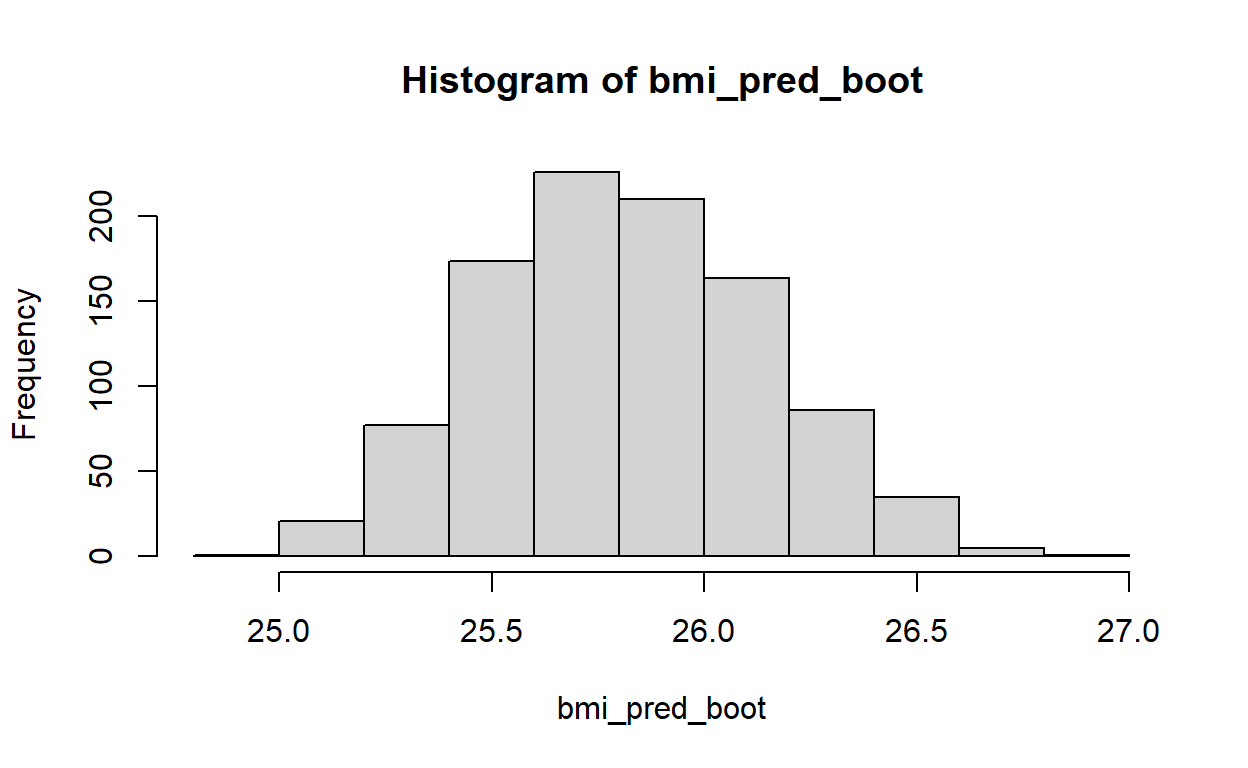
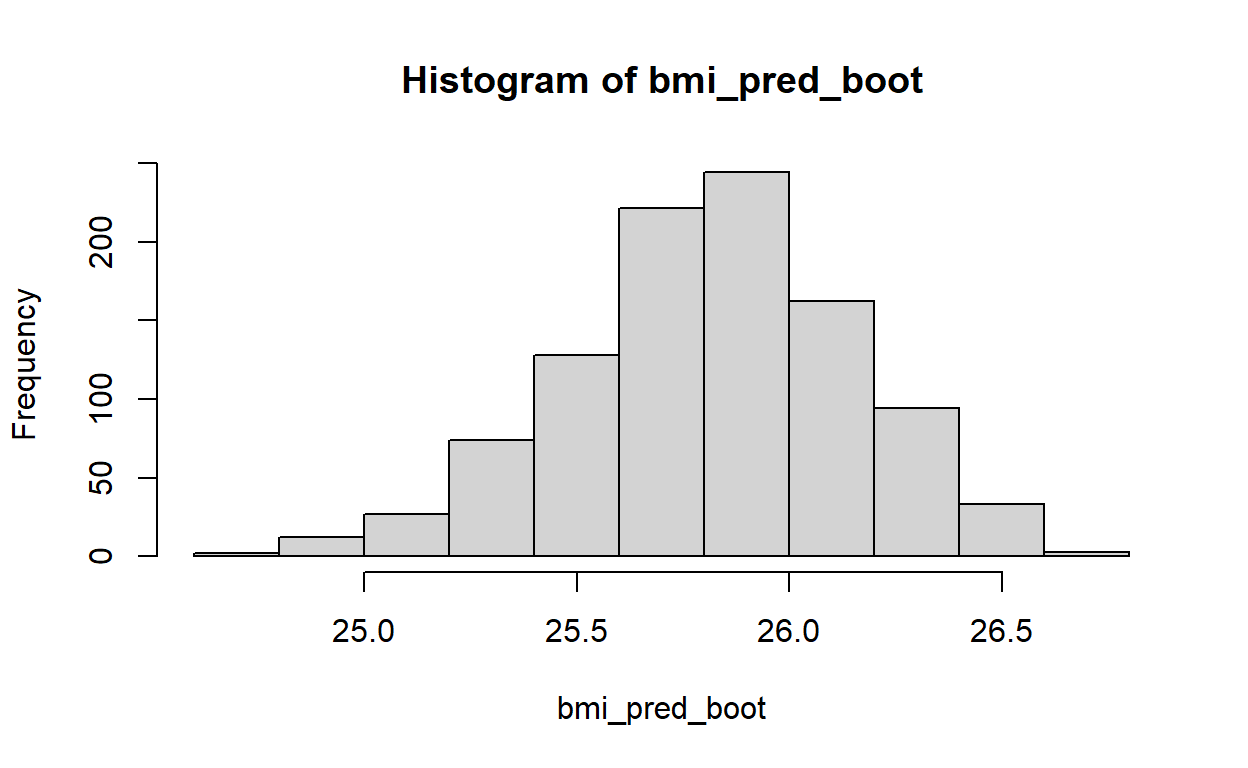
...

diff --git a/docs/C6_solution.html b/docs/C6_solution.html
@@ -2552,7 +2552,7 @@ C8 Case Study
 <span><span class='fu'>bmi_pred_funct</span><span class='op'>(</span>data_input <span class='op'>=</span> <span class='va'>SSRC_data_bootstrap</span><span class='op'>)</span></span></code></pre>
 </div>
 <pre><code>       1 
-26.22558 </code></pre>
+25.33084 </code></pre>
 </div>
 <h3 id="task-20">Task 20</h3>
 <p>Use a for loop to repeat what you did in tasks 18/19 1000 times. Store the results in a vector called <em>bmi_pred_boot</em>. Check out the <em>bmi_pred_boot</em> vector.</p>
@@ -2574,7 +2574,7 @@ C8 Case Study
 <span><span class='co'># Check out the vector</span></span>
 <span><span class='fu'><a href='https://rdrr.io/r/utils/head.html'>head</a></span><span class='op'>(</span><span class='va'>bmi_pred_boot</span><span class='op'>)</span></span></code></pre>
 </div>
-<pre><code>[1] 25.89763 25.80363 25.70693 25.46001 26.18723 25.27634</code></pre>
+<pre><code>[1] 25.95836 25.75462 25.91827 25.85037 25.61350 25.63804</code></pre>
 </div>
 <h3 id="task-21">Task 21</h3>
 <p>Create a histogram to analyse the distribution of <em>bmi_pred_boot</em> vector. (Just use <em>hist()</em> from the base R package)</p>
@@ -2592,18 +2592,18 @@ C8 Case Study
 <pre class="sourceCode r"><code class="sourceCode r"><span><span class='co'># Calculate mean</span></span>
 <span><span class='fu'><a href='https://rdrr.io/r/base/mean.html'>mean</a></span><span class='op'>(</span><span class='va'>bmi_pred_boot</span><span class='op'>)</span></span></code></pre>
 </div>
-<pre><code>[1] 25.81344</code></pre>
+<pre><code>[1] 25.81372</code></pre>
 <div class="sourceCode">
 <pre class="sourceCode r"><code class="sourceCode r"><span><span class='co'># Calculate standard deviation</span></span>
 <span><span class='fu'><a href='https://rdrr.io/r/stats/sd.html'>sd</a></span><span class='op'>(</span><span class='va'>bmi_pred_boot</span><span class='op'>)</span></span></code></pre>
 </div>
-<pre><code>[1] 0.3273709</code></pre>
+<pre><code>[1] 0.3359121</code></pre>
 <div class="sourceCode">
 <pre class="sourceCode r"><code class="sourceCode r"><span><span class='co'># Calculate quantiles</span></span>
 <span><span class='fu'><a href='https://rdrr.io/r/stats/quantile.html'>quantile</a></span><span class='op'>(</span><span class='va'>bmi_pred_boot</span>, probs <span class='op'>=</span> <span class='fu'><a href='https://rdrr.io/r/base/c.html'>c</a></span><span class='op'>(</span><span class='fl'>0.025</span>, <span class='fl'>0.975</span><span class='op'>)</span><span class='op'>)</span></span></code></pre>
 </div>
 <pre><code>    2.5%    97.5% 
-25.20987 26.45440 </code></pre>
+25.10069 26.46343 </code></pre>
 </div>
 <div class="sourceCode" id="cb20"><pre class="sourceCode r distill-force-highlighting-css"><code class="sourceCode r"></code></pre></div>
 <!--radix_placeholder_article_footer-->

diff --git a/docs/C8_solution.html b/docs/C8_solution.html
@@ -2666,18 +2666,18 @@ Number of Fisher Scoring iterations: 7</code></pre>
 <pre class="sourceCode r"><code class="sourceCode r"><span><span class='co'># Calculate mean</span></span>
 <span><span class='fu'><a href='https://rdrr.io/r/base/mean.html'>mean</a></span><span class='op'>(</span><span class='va'>exp_number_cvd_events_boot</span><span class='op'>)</span></span></code></pre>
 </div>
-<pre><code>[1] 378.122</code></pre>
+<pre><code>[1] 377.7711</code></pre>
 <div class="sourceCode">
 <pre class="sourceCode r"><code class="sourceCode r"><span><span class='co'># Calculate standard deviation</span></span>
 <span><span class='fu'><a href='https://rdrr.io/r/stats/sd.html'>sd</a></span><span class='op'>(</span><span class='va'>exp_number_cvd_events_boot</span><span class='op'>)</span></span></code></pre>
 </div>
-<pre><code>[1] 17.96547</code></pre>
+<pre><code>[1] 18.12974</code></pre>
 <div class="sourceCode">
 <pre class="sourceCode r"><code class="sourceCode r"><span><span class='co'># Calculate quantiles</span></span>
 <span><span class='fu'><a href='https://rdrr.io/r/stats/quantile.html'>quantile</a></span><span class='op'>(</span><span class='va'>exp_number_cvd_events_boot</span>, probs <span class='op'>=</span> <span class='fu'><a href='https://rdrr.io/r/base/c.html'>c</a></span><span class='op'>(</span><span class='fl'>0.025</span>, <span class='fl'>0.975</span><span class='op'>)</span><span class='op'>)</span></span></code></pre>
 </div>
 <pre><code>    2.5%    97.5% 
-343.7040 413.3943 </code></pre>
+340.0596 412.4694 </code></pre>
 </div>
 <h1 id="risk-classification-tool">Risk classification tool</h1>
 <div class="layout-chunk" data-layout="l-body">

diff --git a/docs/C0_course_introduction.html b/docs/C0_course_introduction.html
@@ -2303,7 +2303,8 @@ C8 Case Study
 <li>Google it!!!</li>
 <li>Search for what you need (e.g. “rename variables”) and add “in R”</li>
 <li>The information is almost certainly available, you just need to find it…;)</li>
-<li>Even experienced R users google all the time.</li>
+<li>An alternative to using google is to ask ChatGTP for help, which is often faster than the google option</li>
+<li>Even experienced R users google or use ChatGTP all the time.</li>
 </ul>
 <h2 id="troubleshooting">Troubleshooting</h2>
 <p>As soon as you start working with R, you will also start getting error messages from R. Do not worry about that, this is absolutely normal. Even the most experienced R users regularly make this experience. The important thing is that you know how to deal with these error messages once they occur. Below you find a list of things that you could do when you get an error message:</p>
